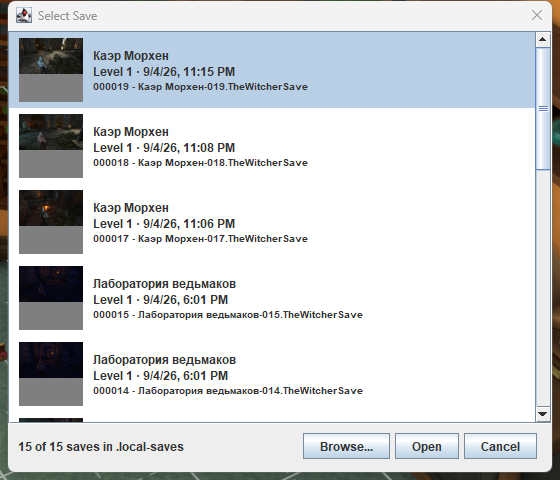
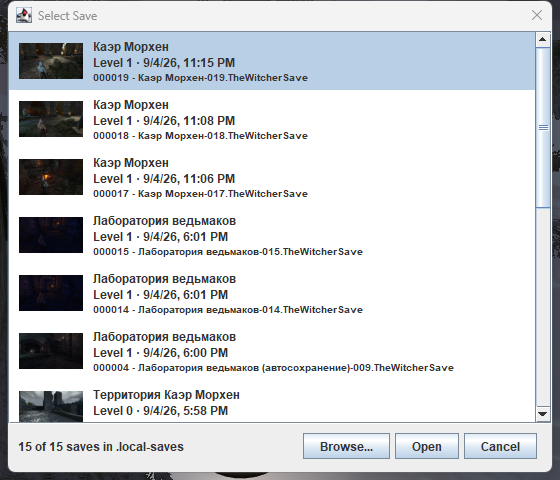
Save browser polish: trim screenshot padding rows, refuse .bak files, document review-build expectation

Changed region(s): [[0.0, 0.0, 1.0, 1.0]]

diff --git a/src/main/kotlin/app/tweditor/TgaDecoder.kt b/src/main/kotlin/app/tweditor/TgaDecoder.kt
@@ -7,7 +7,37 @@ import java.io.InputStream
 /**
  * A decoded TGA image: a row-major, top-left-first grid of opaque-when-24-bit ARGB pixels.
  */
-class TgaImage(val width: Int, val height: Int, val argb: IntArray)
+class TgaImage(val width: Int, val height: Int, val argb: IntArray) {
+    /**
+     * The height after trimming trailing rows of uniform padding color. The game
+     * letterboxes its screenshot into the 64x64 buffer and leaves the remaining
+     * rows at flat 127-gray, so the picture itself is shorter than the entry.
+     */
+    fun contentHeight(padding: Int): Int {
+        var trimmed = height
+        while (trimmed > 0 && isUniformRow(trimmed - 1, padding)) {
+            trimmed--
+        }
+        return if (trimmed == 0) height else trimmed
+    }
+
+    private fun isUniformRow(y: Int, padding: Int): Boolean {
+        for (x in 0 until width) {
+            if (argb[y * width + x] != padding) {
+                return false
+            }
+        }
+        return true
+    }
+
+    companion object {
+        /**
+         * The flat gray (127, 127, 127) the game leaves in the unused part of the
+         * screenshot buffer.
+         */
+        val SCREENSHOT_PADDING = 0xFF7F7F7F.toInt()
+    }
+}
 
 /**
  * Pure-Kotlin decoder for the uncompressed and run-length-encoded true-color TGA

diff --git a/src/main/kotlin/app/tweditor/SavePickerDialog.kt b/src/main/kotlin/app/tweditor/SavePickerDialog.kt
@@ -171,6 +171,15 @@ class SavePickerDialog(
         } else {
             chooser = JFileChooser()
         }
+        chooser.fileFilter = object : javax.swing.filechooser.FileFilter() {
+            override fun accept(file: File): Boolean {
+                return file.isDirectory || file.getName().endsWith(".TheWitcherSave")
+            }
+
+            override fun getDescription(): String {
+                return "The Witcher saves (*.TheWitcherSave)"
+            }
+        }
         chooser.dialogTitle = "Select Save"
         if (chooser.showOpenDialog(this) == JFileChooser.APPROVE_OPTION) {
             selectedFile = chooser.selectedFile
@@ -238,8 +247,9 @@ class SavePickerDialog(
     }
 
     private fun toBufferedImage(tga: TgaImage): BufferedImage {
-        val image = BufferedImage(tga.width, tga.height, BufferedImage.TYPE_INT_ARGB)
-        image.setRGB(0, 0, tga.width, tga.height, tga.argb, 0, tga.width)
+        val height = tga.contentHeight(TgaImage.SCREENSHOT_PADDING)
+        val image = BufferedImage(tga.width, height, BufferedImage.TYPE_INT_ARGB)
+        image.setRGB(0, 0, tga.width, height, tga.argb, 0, tga.width)
         return image
     }
 

diff --git a/src/test/kotlin/app/tweditor/TgaDecoderTest.kt b/src/test/kotlin/app/tweditor/TgaDecoderTest.kt
@@ -171,6 +171,18 @@ class TgaDecoderTest {
         }
     }
 
+    @Test
+    fun fixtureScreenshotContentEndsAboveThePaddingRows(@TempDir tempDir: Path) {
+        val save = SaveSeamSupport.copyFixtureTo(tempDir)
+        val saveDatabase = SaveDatabase(environment, save)
+        saveDatabase.load()
+        val tgaEntry = saveDatabase.entries.first { it.resourceName.endsWith(".tga") }
+        val image = TgaDecoder.decode(tgaEntry.getInputStream().use { it.readBytes() })
+
+        assertEquals(36, image.contentHeight(TgaImage.SCREENSHOT_PADDING),
+            "the game letterboxes the 16:9 screenshot into the 64x64 buffer; the padding rows must not show")
+    }
+
     private fun tga(
         imageType: Int,
         width: Int,

diff --git a/src/main/kotlin/app/tweditor/MainWindow.kt b/src/main/kotlin/app/tweditor/MainWindow.kt
@@ -256,6 +256,11 @@ class MainWindow(val environment: AppEnvironment) : JFrame("The Witcher Save Edi
     }
 
     private fun loadSave(file: File) {
+        if (file.getName().endsWith(SaveBackup.BACKUP_SUFFIX)) {
+            JOptionPane.showMessageDialog(this, "Backups are not editable. Open the original save; restore the backup from the File menu if you need it.", "Backup Selected", 0)
+            return
+        }
+
         var saveName = file.getName()
         val sep = saveName.lastIndexOf('.')
         if (sep > 0) {

diff --git a/AGENTS.md b/AGENTS.md
@@ -41,3 +41,7 @@ The gated GUI tests (`tweditor.screenshots`) create real windows. Two rules keep
 2. **Annotate gated UI test classes with `@Timeout`** so a stuck EDT fails that test instead of hanging the whole run.
 
 Also: interrupting or timing out a gradle invocation does not stop the daemon - it keeps building in the background and a later rerun can report stale `UP-TO-DATE`. After a hung or killed run, check `jps -l` for stray `GradleDaemon`/test-worker JVMs and kill them before rerunning.
+
+## Review builds
+
+The owner reviews finished work by running the app, not by reading the diff. Whenever you finish a piece of work, rebuild the Windows app image (`./gradlew packageWindowsAppImage`) and point the owner at the fresh exe: `build/app-image/TWEditor/TWEditor.exe` (launch detached with `Start-Process <path>` so the terminal can be closed).
